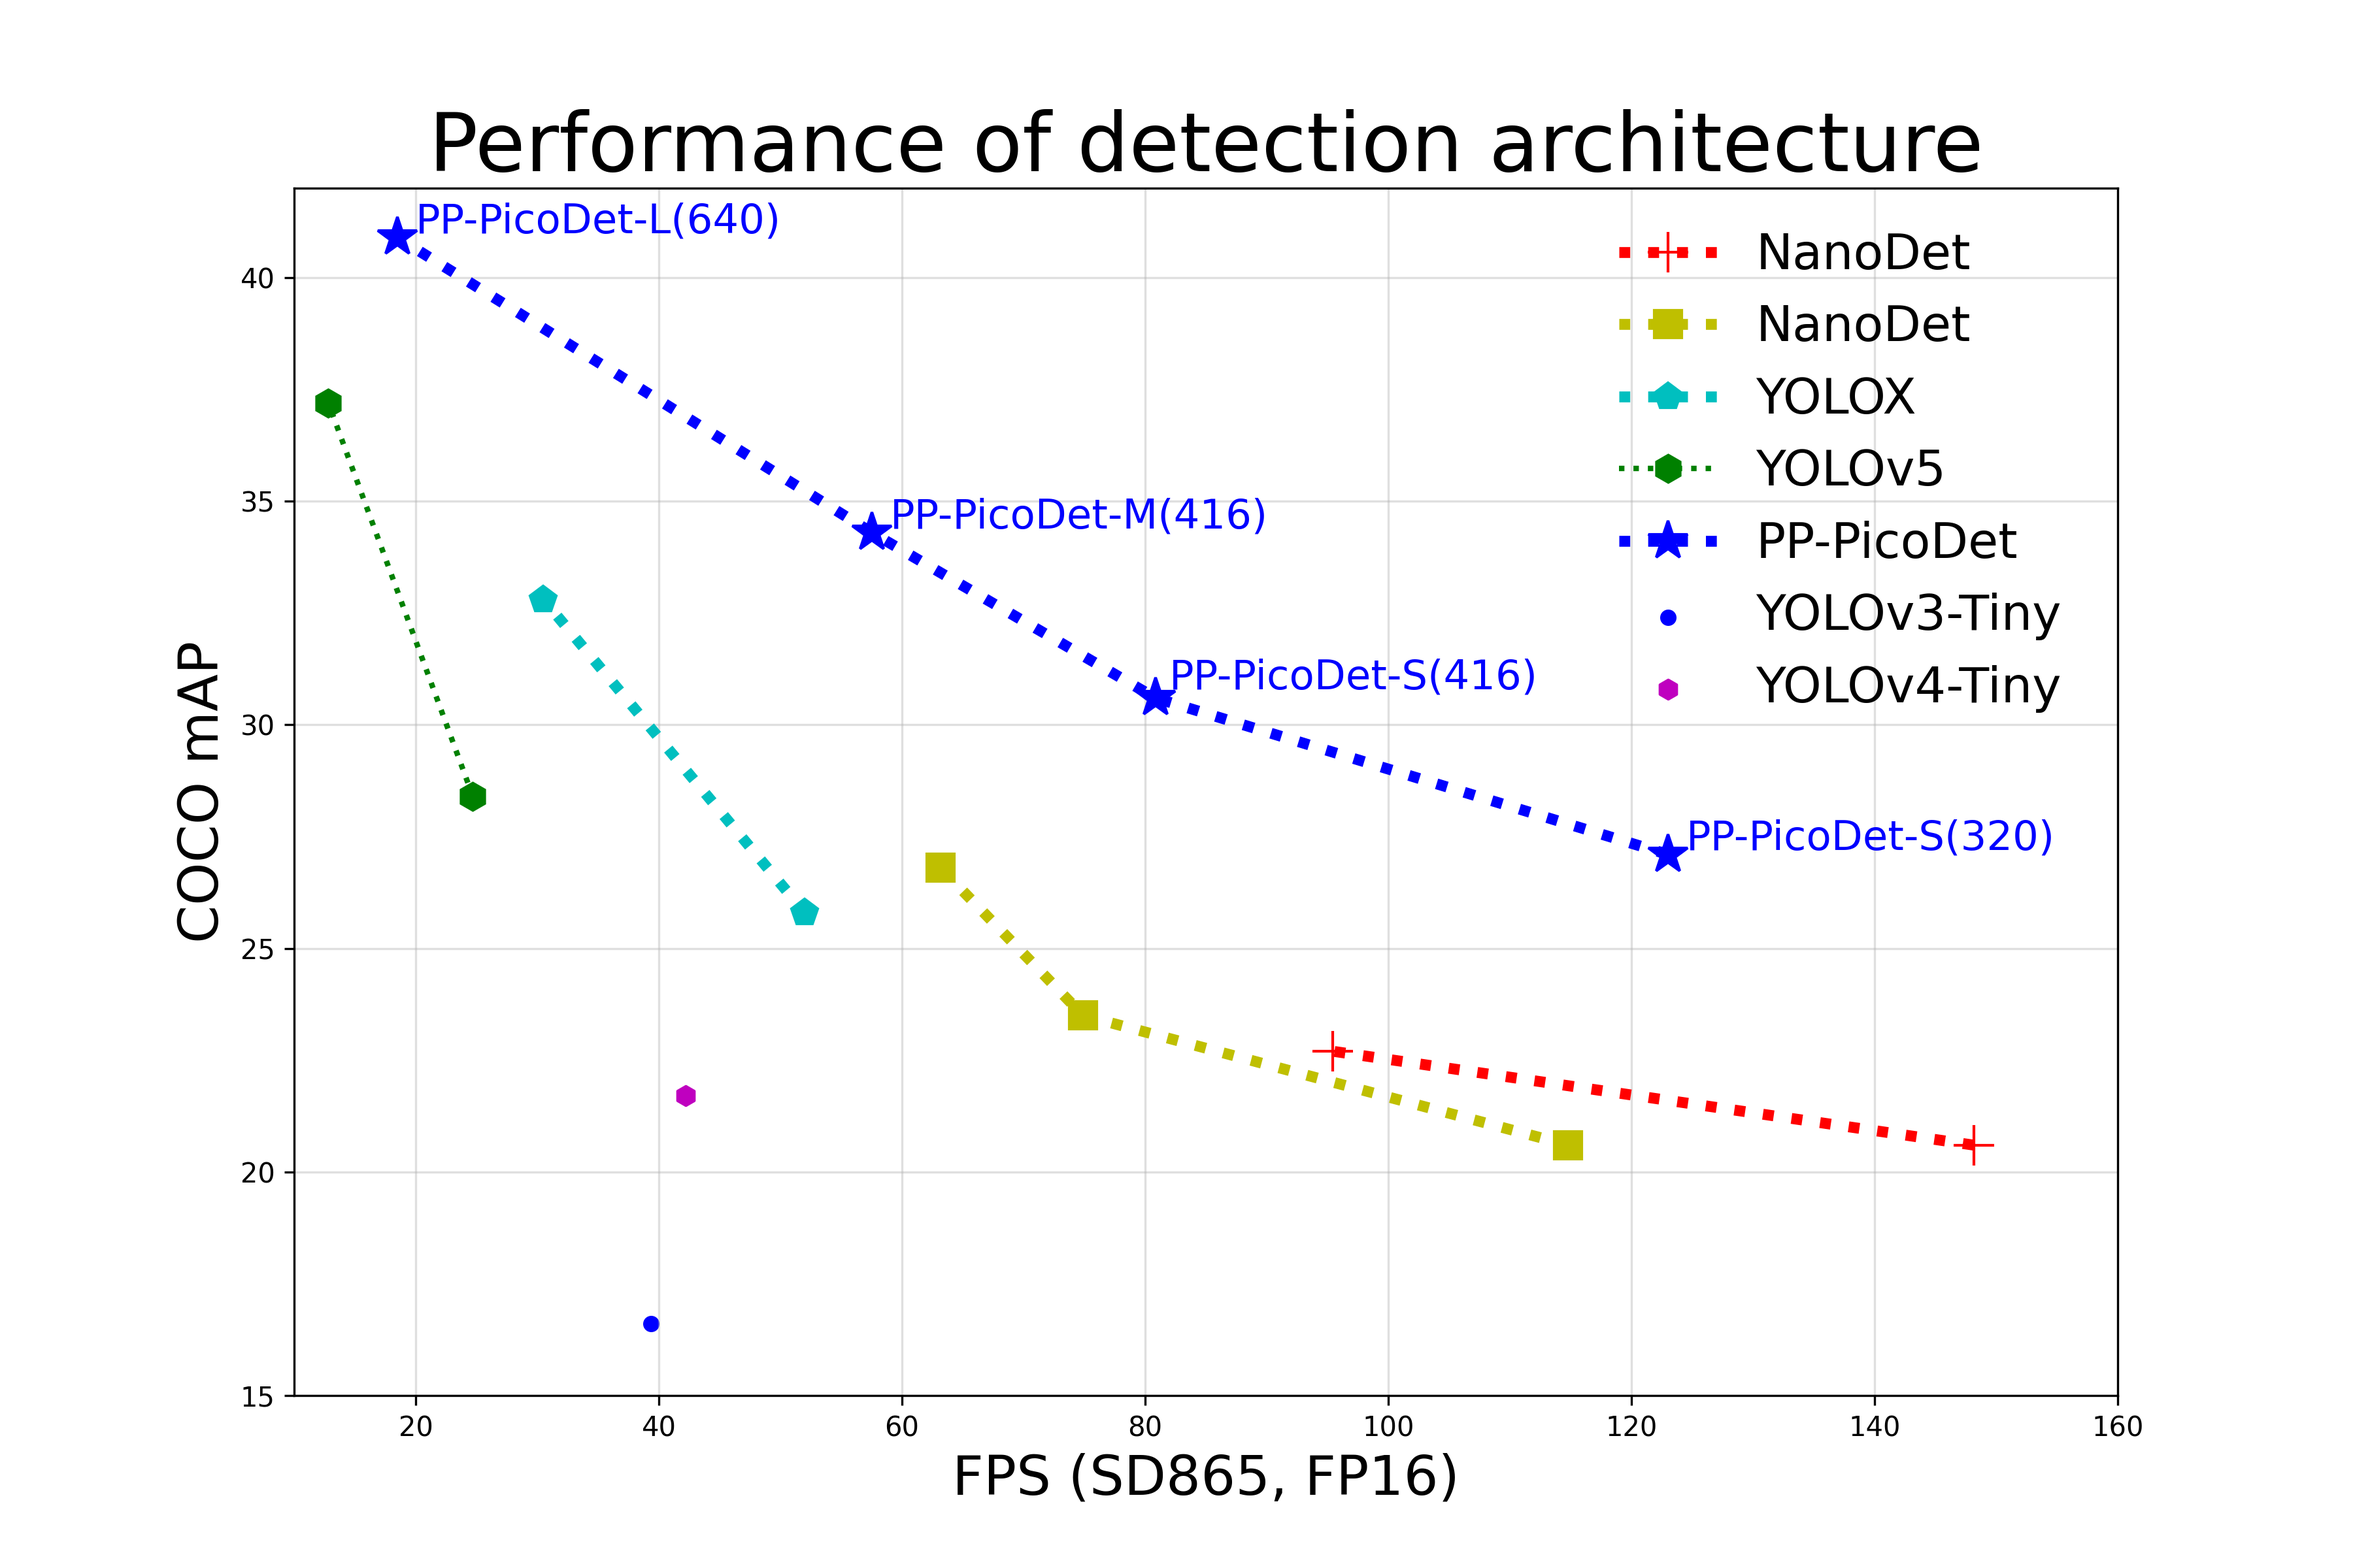
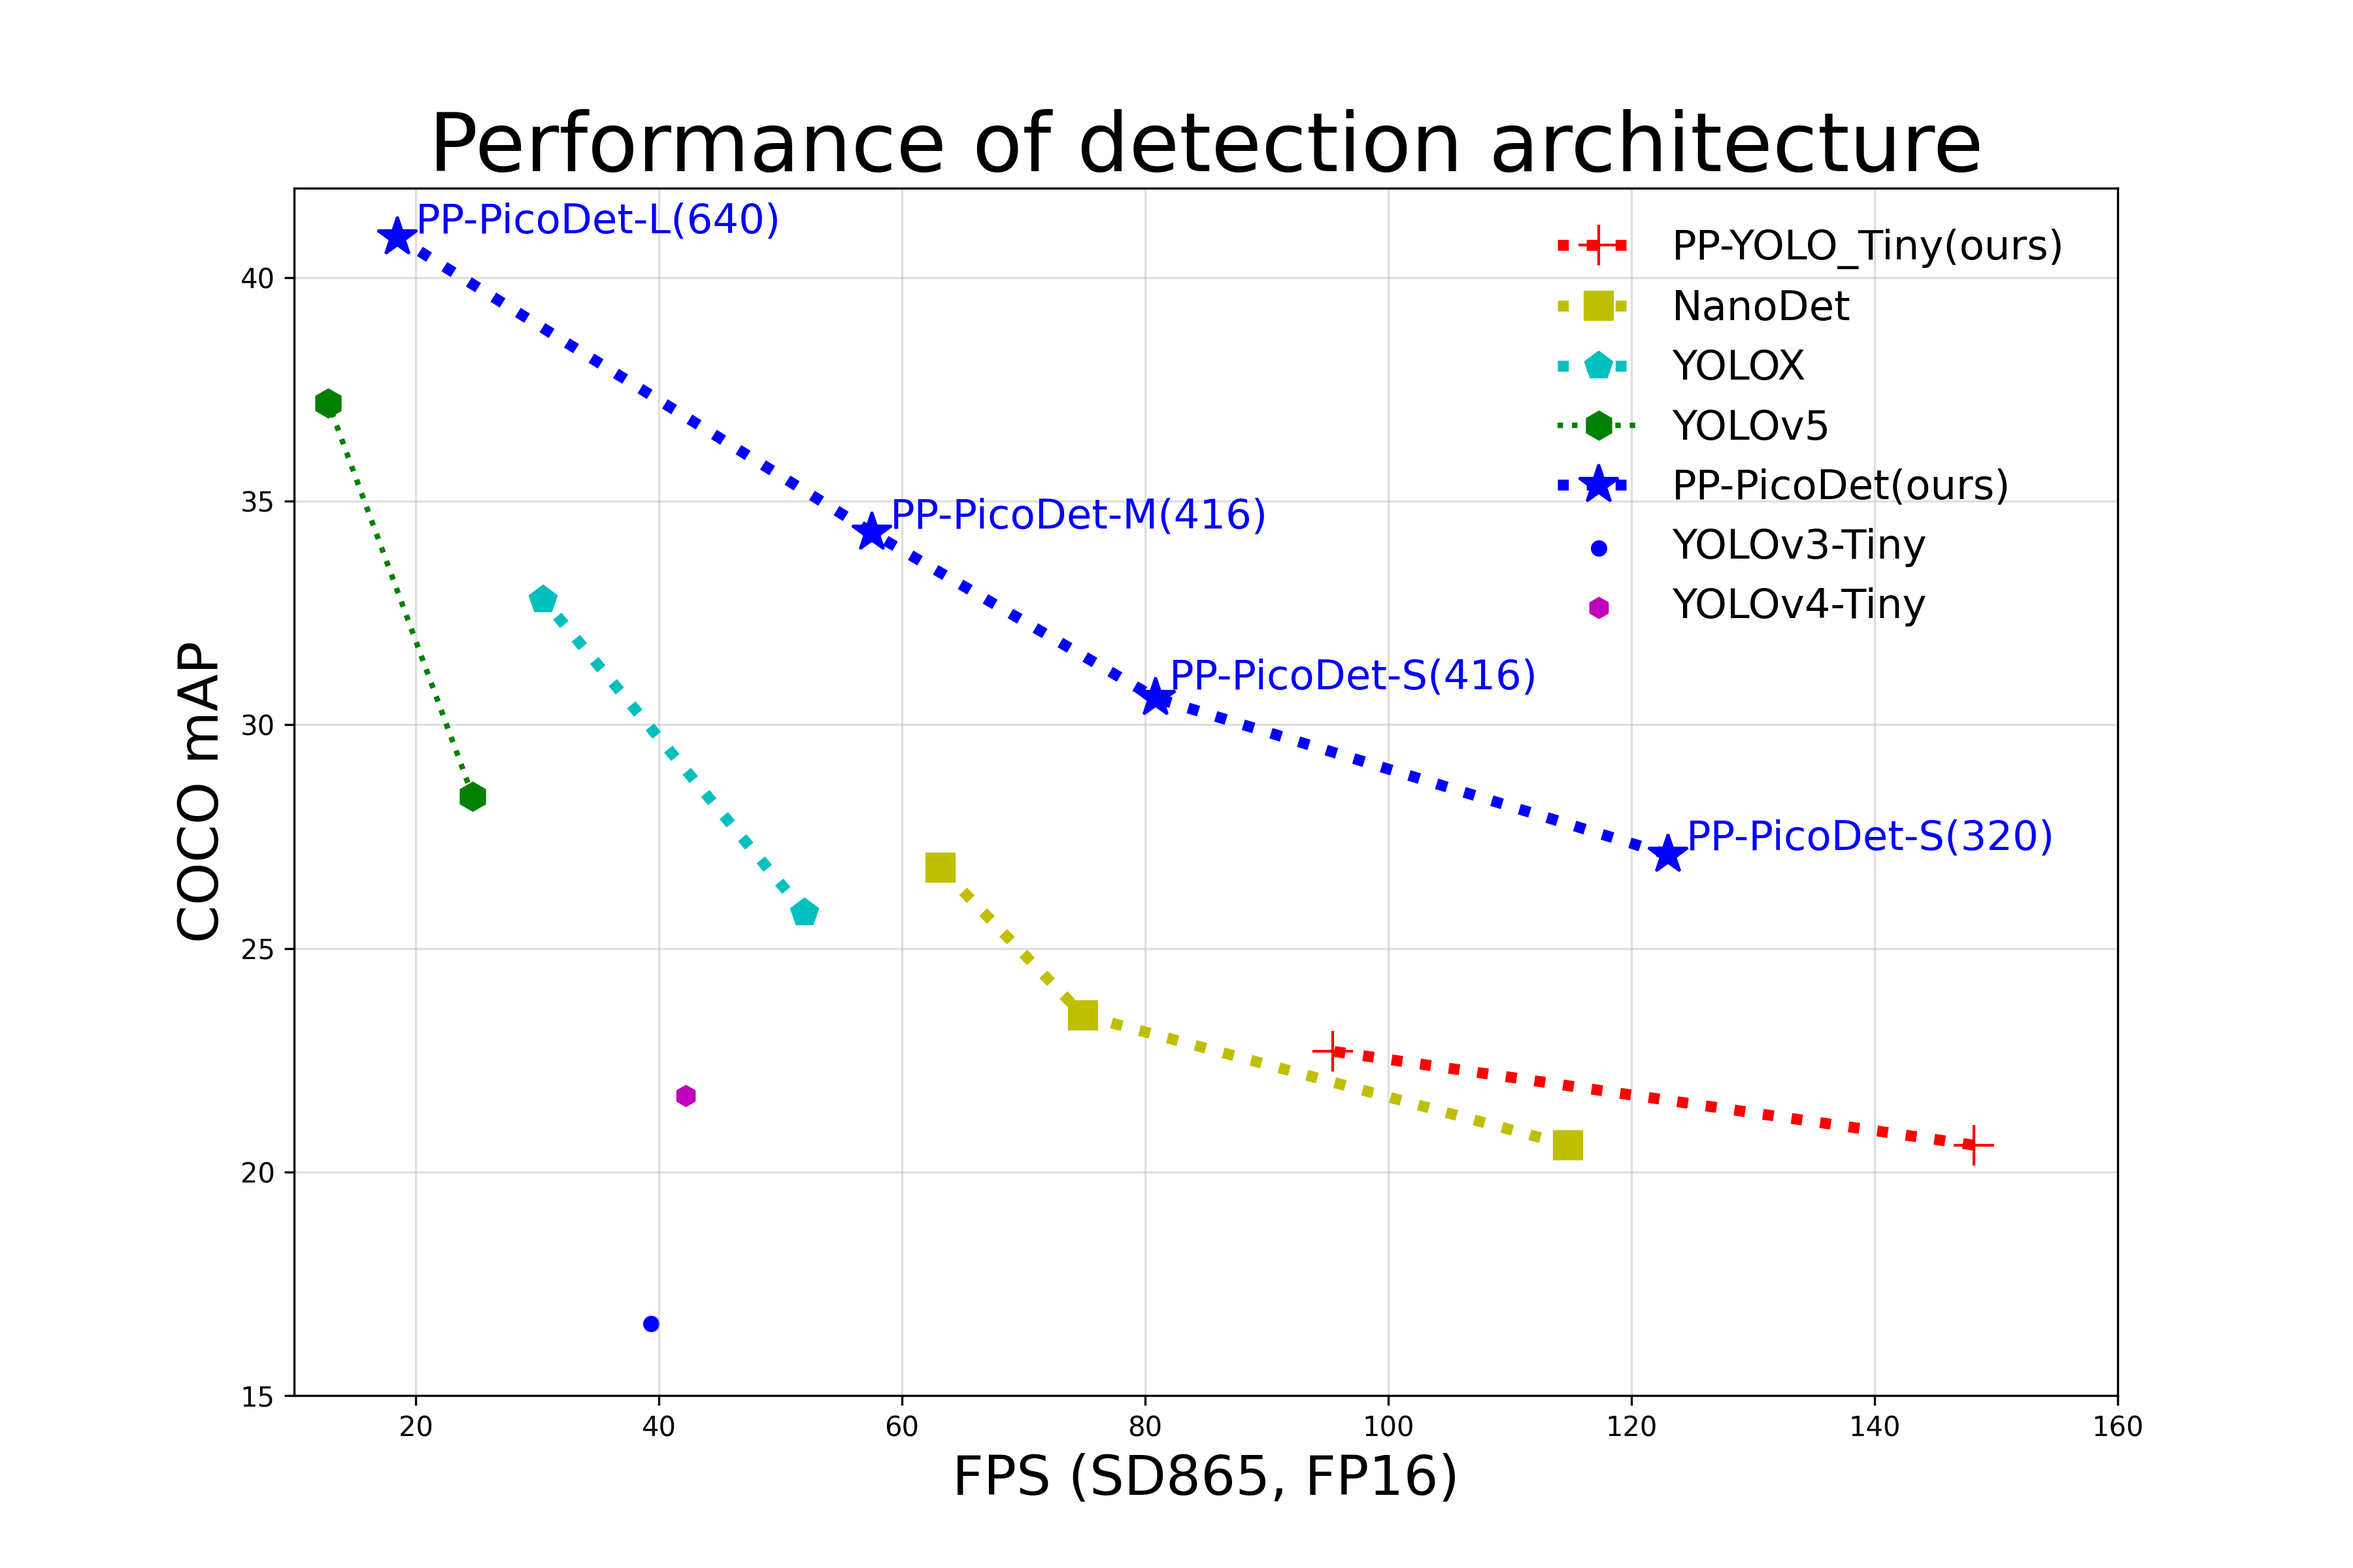
polish mobile

Changed region(s): [[0.6533, 0.125, 0.8711, 0.4688]]

diff --git a/README_en.md b/README_en.md
@@ -201,7 +201,7 @@ The relationship between COCO mAP and FPS on Qualcomm Snapdragon 865 of represen
 **NOTE:**
 
 - All data tested on Qualcomm Snapdragon 865(4\*A77 + 4\*A55) processor with batch size of 1 and CPU threads of 4, and use NCNN library in testing, benchmark scripts is publiced at [MobileDetBenchmark](https://github.com/JiweiMaster/MobileDetBenchmark)
-- [PP-PicoDet](configs/picodet) and [PP-YOLO-Tiny](configs/ppyolo) are developed by PaddleDetection.
+- [PP-PicoDet](configs/picodet) and [PP-YOLO-Tiny](configs/ppyolo) are developed and released by PaddleDetection, other models are not provided in PaddleDetection.
 
 ## Tutorials
 
